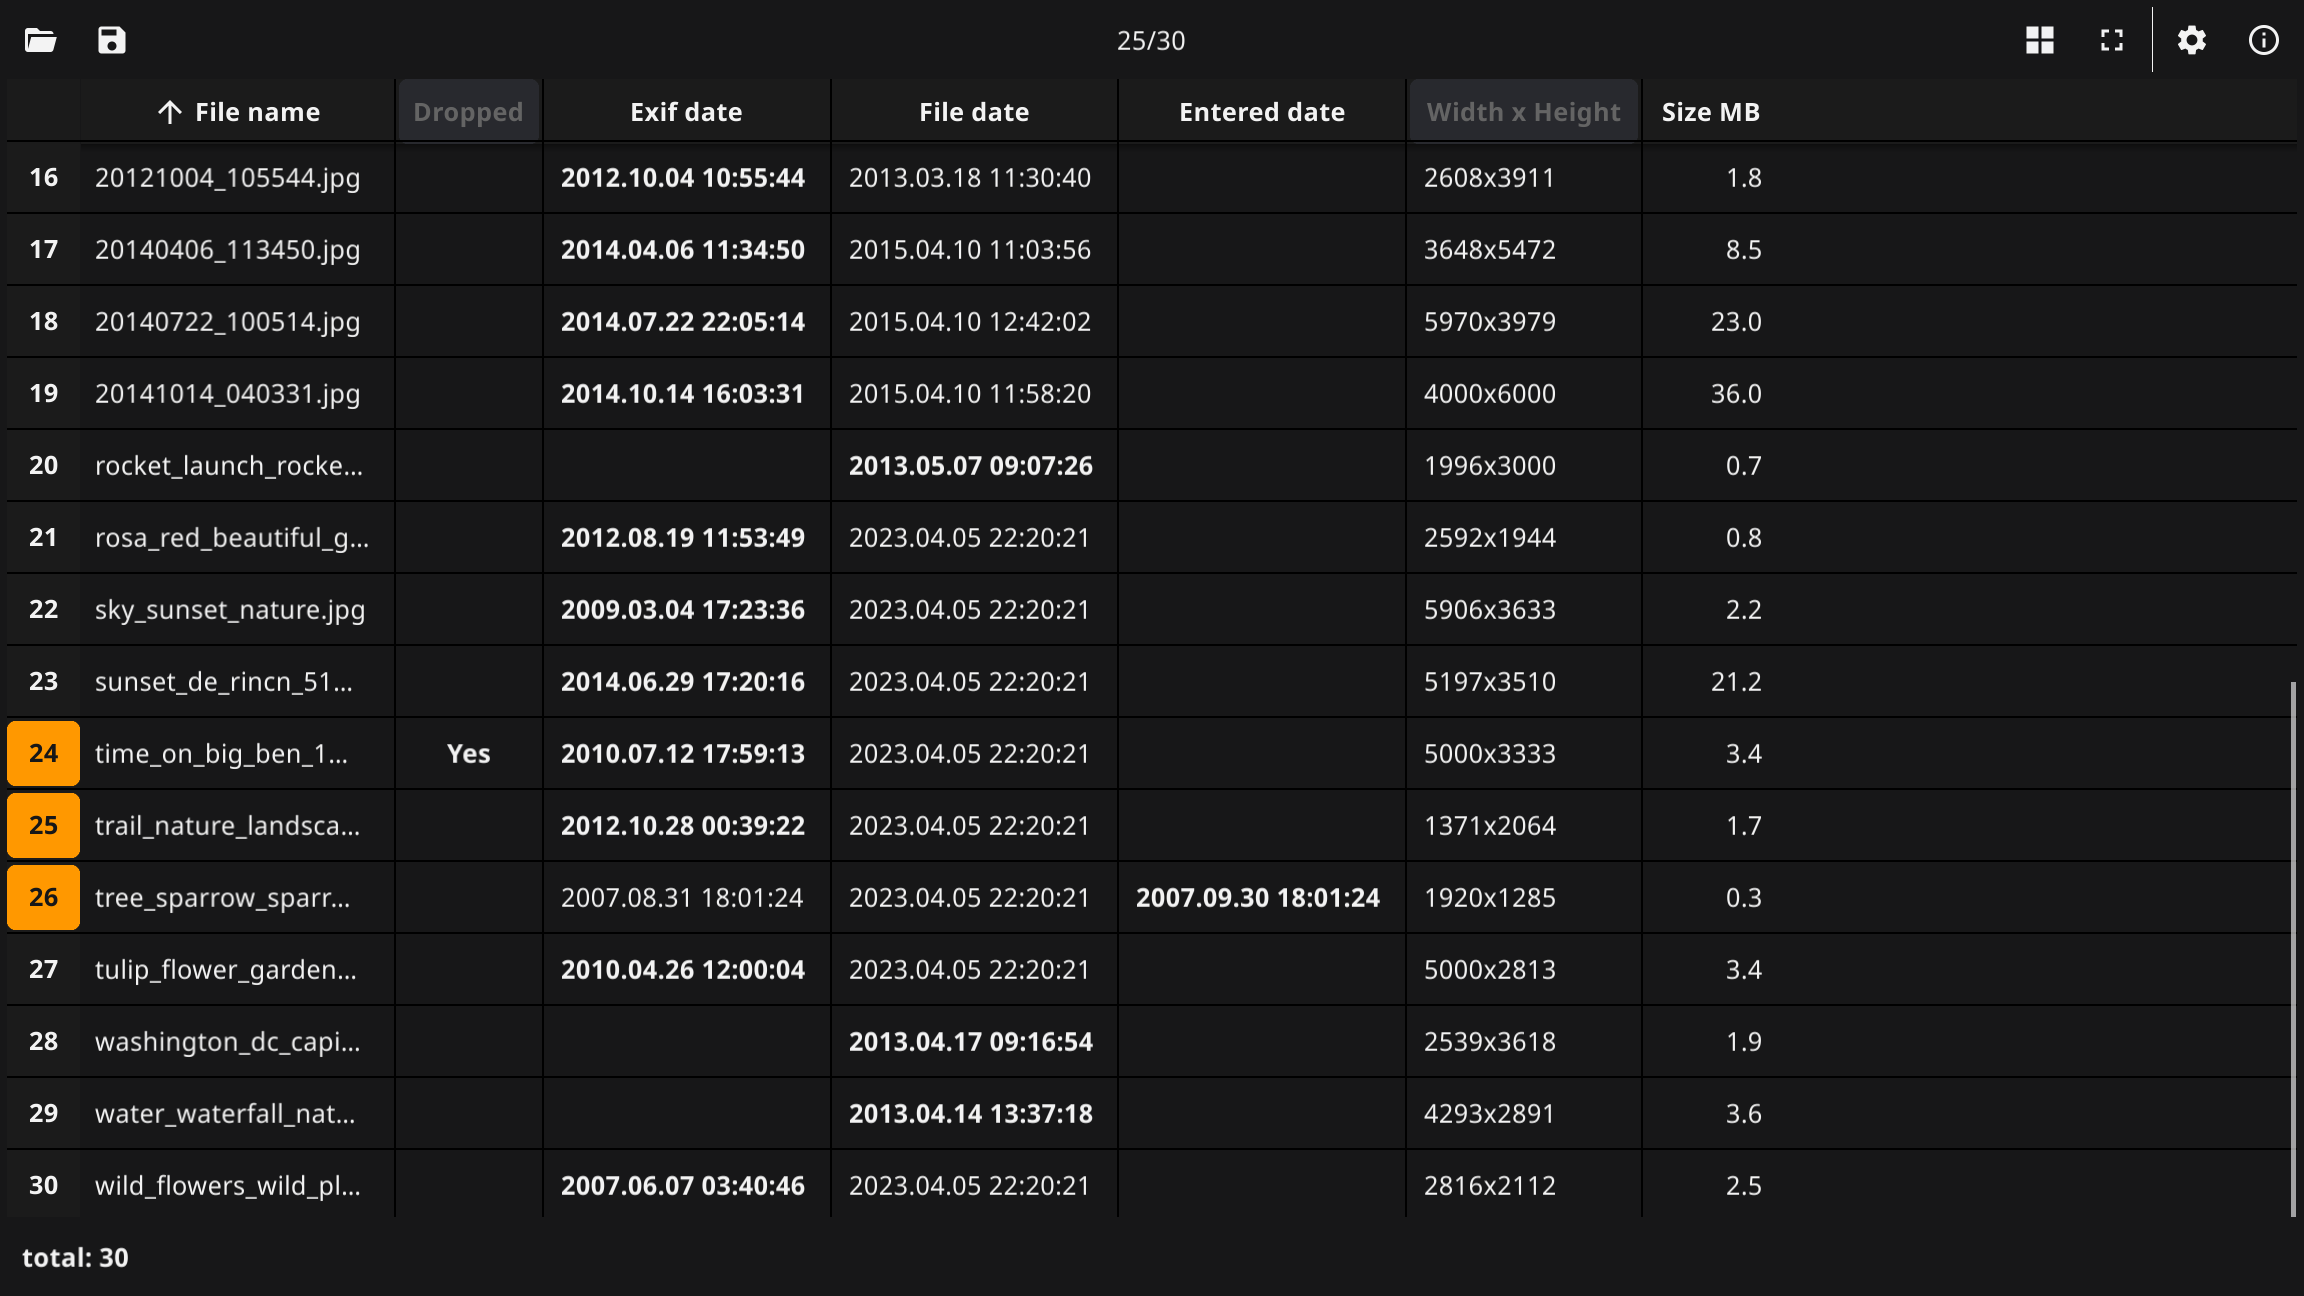
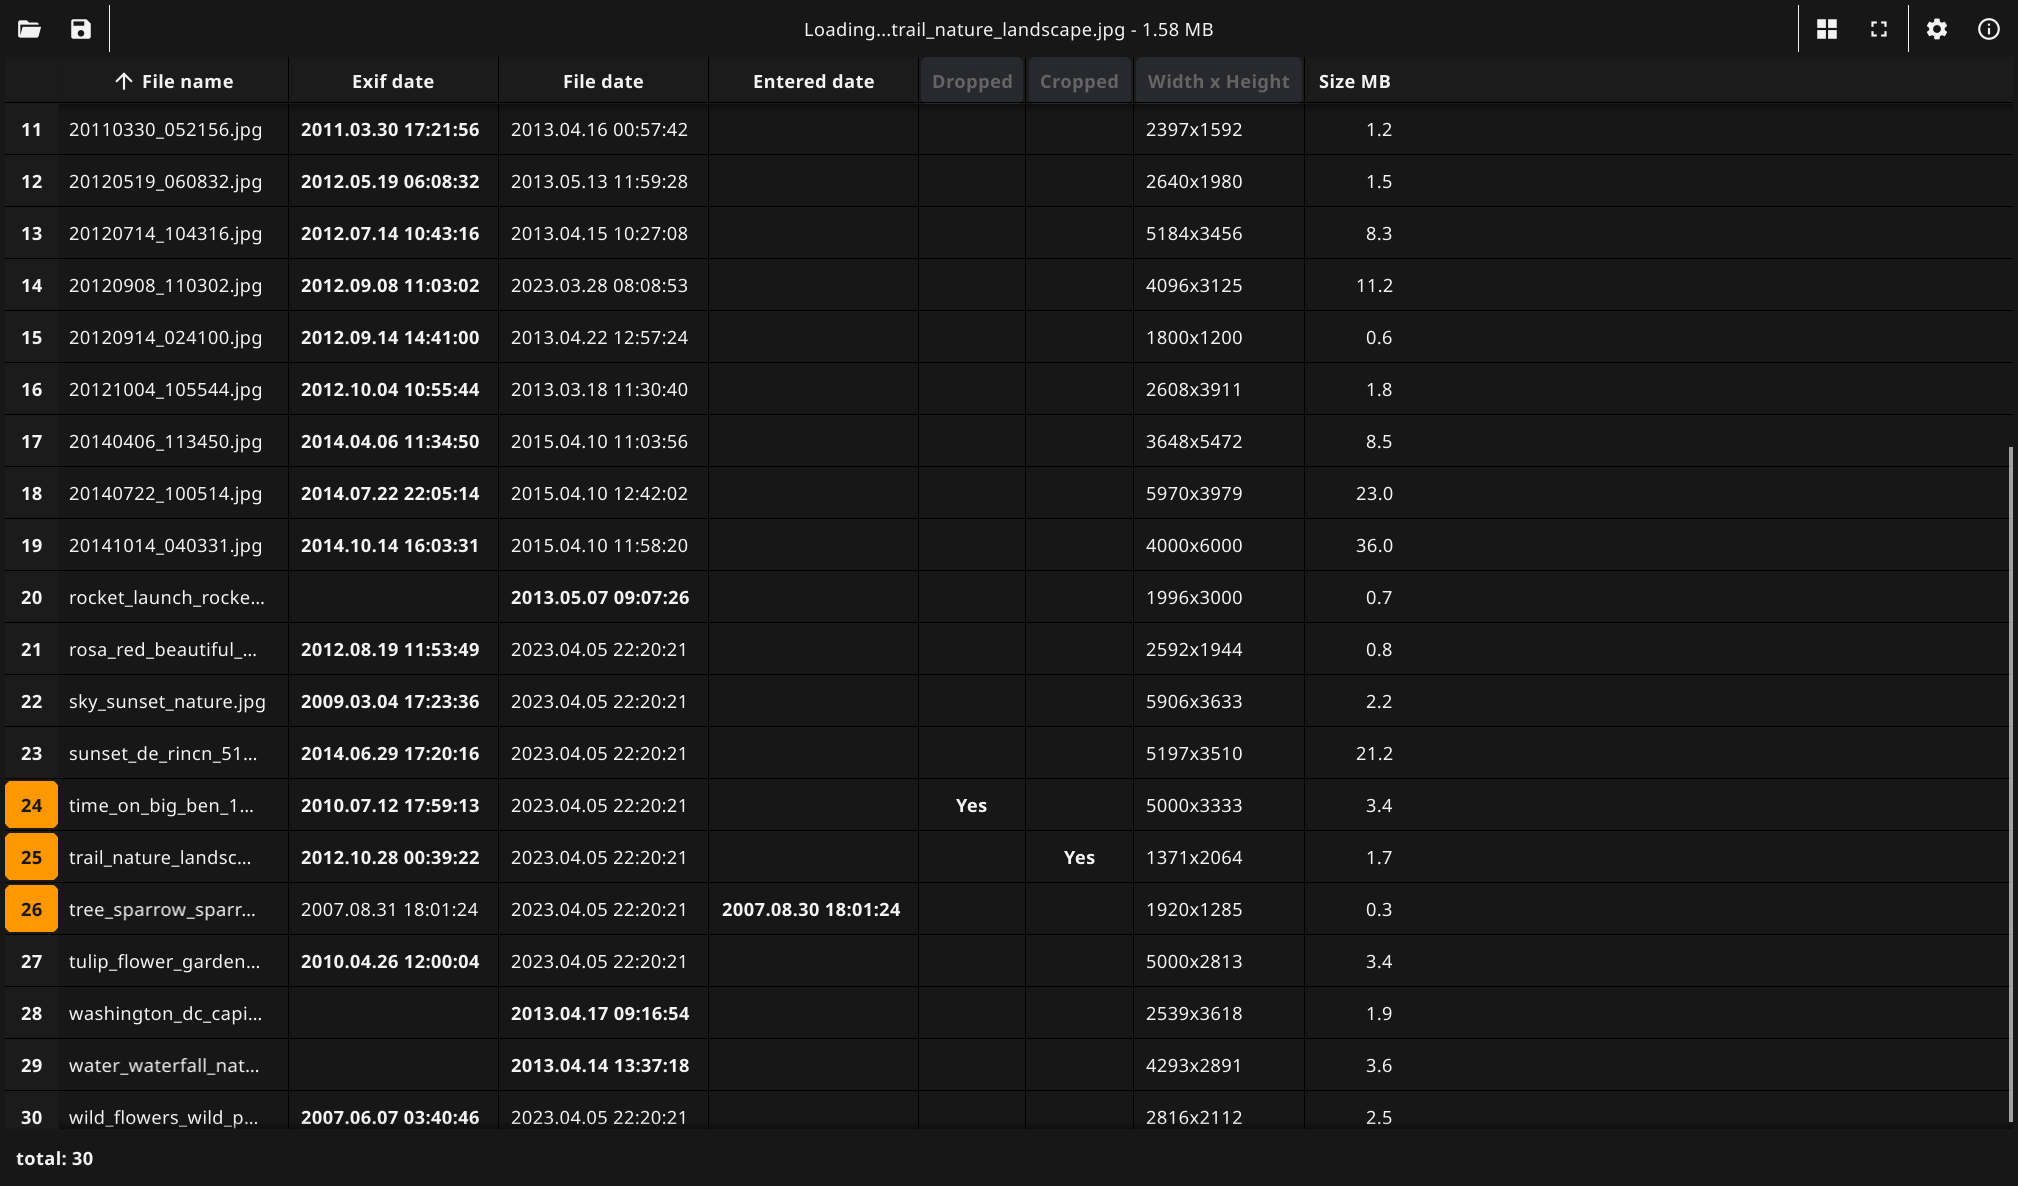
Ready for release v1.5.0

diff --git a/docs/README.md b/docs/README.md
@@ -12,18 +12,23 @@
 Pixyne application has a simple and intuitive interface, but there are some non-obvious things:   
 * With a click on photo you can mark to drop it in the trash.
 * When you are in a list view, clicking on a row button opens the corresponding photo.  
-* You may also set or correct the EXIF shooting date to the file date or to a manually entered date.
+* In Advanced mode you may also set or correct the EXIF shooting date to the file date or to a manually entered date and crop the size selected photo.
 * When you save changes, you can change all file names to EXIF shooting date format.  
 * Made changes will not actually be applied until you save. Pixyne automaticaly stores the current state of the folder so you can undo changes at any time. This is useful when working with a large number of photos and when you need to close the application in order to continue working later. If you open another folder, all unsaved changes will be lost.
-* On save originals of modified photos will be copied to "originals" subfolder and photos marked to drop will be moved to "dropped" subfolder.  
-* You can control the application using the keyboard. To see the hotkeys, press Alt+K.  
+* On save originals of modified and dropped photos will be copied to "backup" subfolder.
+* You can control the application using the keyboard. To see the hotkeys, press `Alt+K`  
 
+Enjoy!  
 
-## Installation
+## Ready to use
 
-The easiest way to install the application is to download and run the installation file from the [latest release](https://github.com/vinser/pixyne/releases/tag/v1.4.1) that matches your operating system and CPU type.
+For Linux users, Burnfix is avaliable as a Flatpak on [Flathub](https://flathub.org/apps/io.github.vinser.burnfix):
 
-|OS        |CPU type              |Install package            |Tested* |  
+<a href='https://flathub.org/apps/details/io.github.vinser.pixyne'><img width='150' alt='Download on Flathub' src='https://dl.flathub.org/assets/badges/flathub-badge-en.svg'/></a>
+
+Another easy way to install the application is to download and run the installation file from the [latest release](https://github.com/vinser/pixyne/releases/tag/v1.5.0) that matches your operating system and CPU type. Pre-built binaries are available for  
+
+|OS        |CPU type              |Install package            |Tested<sup>1</sup> |  
 |----------|----------------------|---------------------------|:------:|  
 |Linux     | Intel, AMD 64-bit    | pixyne-linux-amd64.tar.xz |No      |  
 |Linux     | ARM 64-bit           | pixyne-linux-arm64.tar.xz |Yes     |
@@ -32,24 +37,19 @@ The easiest way to install the application is to download and run the installati
 |OS X (MAC)| ARM 64-bit           | pixyne-macosx-arm64.dmg   |No      |  
 |Windows   | Intel, AMD 64-bit    | pixyne-windows-amd64.msi  |Yes     |  
 
-\*_Some of packages was only cross-builded and not tested on real desktops, but you can still try them out_  
+<sup>1</sup>_Some of packages was only cross-builded and not tested on real desktops, but you can still try them out_  
 
-You can also build Pixine app from the source code right for your desktop using the `fyne-cross` command.  
-To do so you will need to have `Go` compiler and `docker` installed.   
-Ones set up install `fyne-cross` using the following command (requires Go 1.17 or later)
-```
-go install github.com/fyne-io/fyne-cross@latest
-```
-Then download Pixyne app code directly from git
+## Building
+
+Pixyne compiles into a statically linked binary with no explicit runtime dependencies. 
+
+Compiling requires a [Go](https://go.dev) compiler (v1.18 or later is required) and the [prerequisites for Fyne](https://developer.fyne.io/started/).
+
+On systems with the above compile-time requirements met you can build the project using `go build` in the project root:
 ```
 git clone https://github.com/vinser/pixyne.git
+go build
 ```
-and build app using `fyne-cross` with your `OS` option  
-```
-fyne-cross <linux|darwin|windows>
-```
-Enjoy!
-
 ---
 *Created using [Fyne](https://github.com/fyne-io/fyne) GUI library*  
 *App icon designed by [Icon8](https://icon8.com)*  

diff --git a/README.md b/README.md
@@ -12,19 +12,23 @@
 Pixyne application has a simple and intuitive interface, but there are some non-obvious things:   
 * With a click on photo you can mark to drop it in the trash.
 * When you are in a list view, clicking on a row button opens the corresponding photo.  
-* You may also set or correct the EXIF shooting date to the file date or to a manually entered date.
+* In Advanced mode you may also set or correct the EXIF shooting date to the file date or to a manually entered date and crop the size selected photo.
 * When you save changes, you can change all file names to EXIF shooting date format.  
 * Made changes will not actually be applied until you save. Pixyne automaticaly stores the current state of the folder so you can undo changes at any time. This is useful when working with a large number of photos and when you need to close the application in order to continue working later. If you open another folder, all unsaved changes will be lost.
-* On save originals of modified photos will be copied to "originals" subfolder and photos marked to drop will be moved to "dropped" subfolder.
-* You can control the application using the keyboard. To see the hotkeys, press Alt+K.  
+* On save originals of modified and dropped photos will be copied to "backup" subfolder.
+* You can control the application using the keyboard. To see the hotkeys, press `Alt+K`  
 
+Enjoy!  
 
+## Ready to use
 
-## Installation
+For Linux users, Burnfix is avaliable as a Flatpak on [Flathub](https://flathub.org/apps/io.github.vinser.burnfix):
 
-The easiest way to install the application is to download and run the installation file from the [latest release](https://github.com/vinser/pixyne/releases/tag/v1.4.1) that matches your operating system and CPU type.
+<a href='https://flathub.org/apps/details/io.github.vinser.pixyne'><img width='150' alt='Download on Flathub' src='https://dl.flathub.org/assets/badges/flathub-badge-en.svg'/></a>
 
-|OS        |CPU type              |Install package            |Tested* |  
+Another easy way to install the application is to download and run the installation file from the [latest release](https://github.com/vinser/pixyne/releases/tag/v1.5.0) that matches your operating system and CPU type. Pre-built binaries are available for  
+
+|OS        |CPU type              |Install package            |Tested<sup>1</sup> |  
 |----------|----------------------|---------------------------|:------:|  
 |Linux     | Intel, AMD 64-bit    | pixyne-linux-amd64.tar.xz |No      |  
 |Linux     | ARM 64-bit           | pixyne-linux-arm64.tar.xz |Yes     |
@@ -33,24 +37,19 @@ The easiest way to install the application is to download and run the installati
 |OS X (MAC)| ARM 64-bit           | pixyne-macosx-arm64.dmg   |No      |  
 |Windows   | Intel, AMD 64-bit    | pixyne-windows-amd64.msi  |Yes     |  
 
-\*_Some of packages was only cross-builded and not tested on real desktops, but you can still try them out_  
+<sup>1</sup>_Some of packages was only cross-builded and not tested on real desktops, but you can still try them out_  
 
-You can also build Pixine app from the source code right for your desktop using the `fyne-cross` command.  
-To do so you will need to have `Go` compiler and `docker` installed.   
-Ones set up install `fyne-cross` using the following command (requires Go 1.17 or later)
-```
-go install github.com/fyne-io/fyne-cross@latest
-```
-Then download Pixyne app code directly from git
+## Building
+
+Pixyne compiles into a statically linked binary with no explicit runtime dependencies. 
+
+Compiling requires a [Go](https://go.dev) compiler (v1.18 or later is required) and the [prerequisites for Fyne](https://developer.fyne.io/started/).
+
+On systems with the above compile-time requirements met you can build the project using `go build` in the project root:
 ```
 git clone https://github.com/vinser/pixyne.git
+go build
 ```
-and build app using `fyne-cross` with your `OS` option  
-```
-fyne-cross <linux|darwin|windows>
-```
-Enjoy!
-
 ---
 *Created using [Fyne](https://github.com/fyne-io/fyne) GUI library*  
 *App icon designed by [Icon8](https://icon8.com)*  
